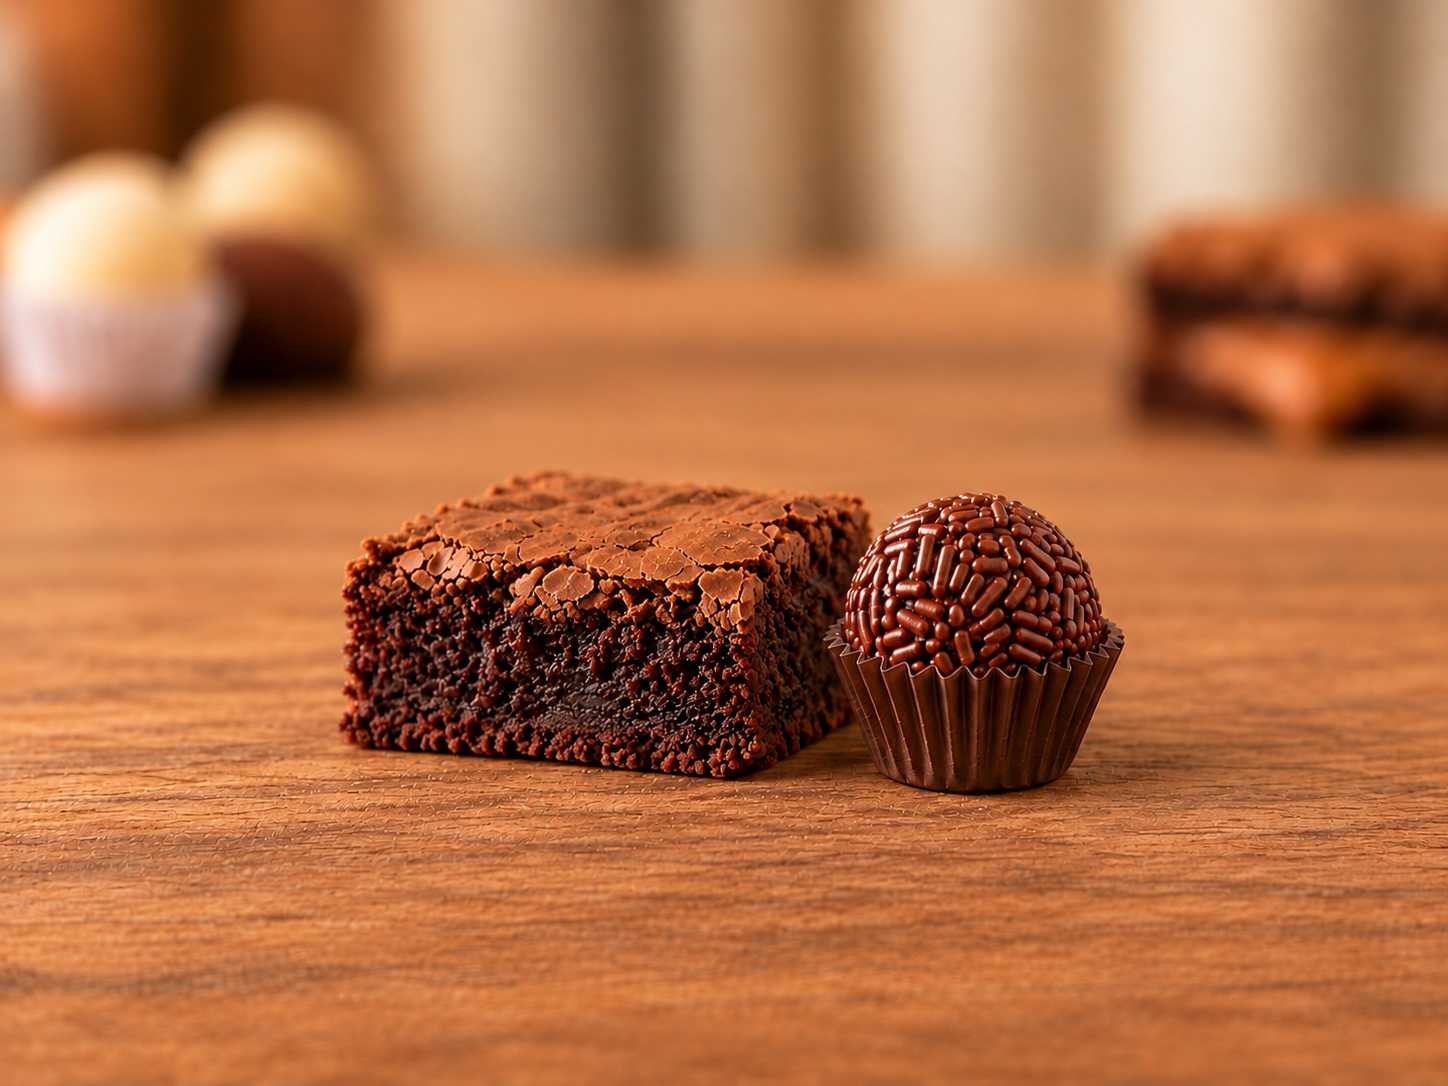
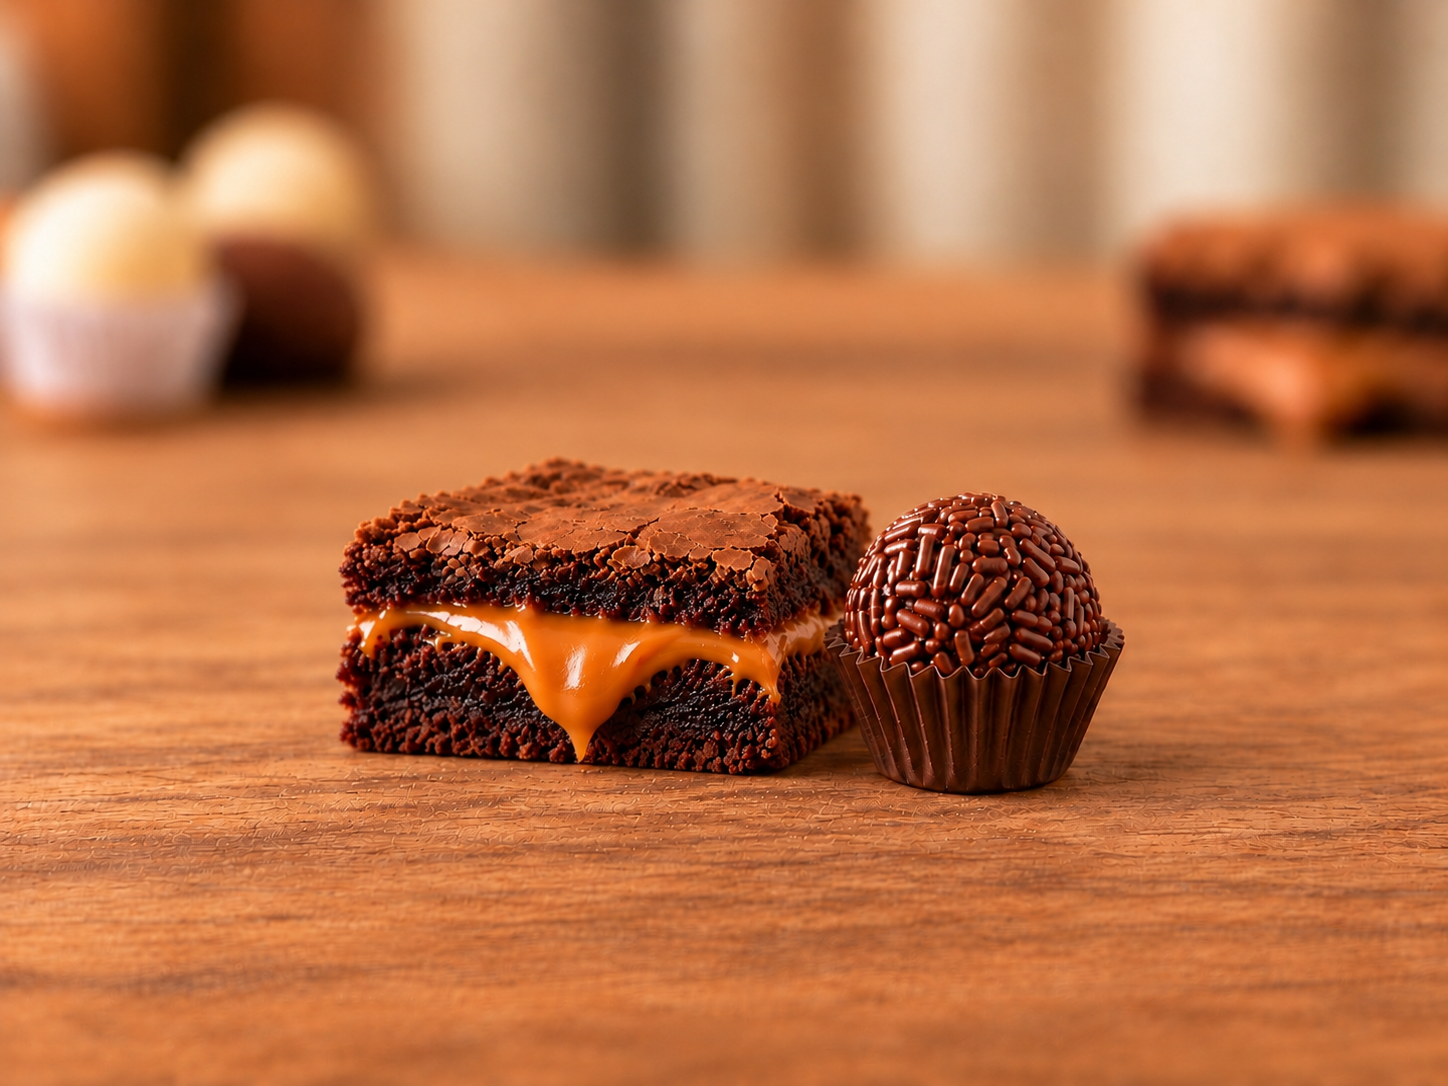
novos preços e imagens

diff --git a/src/app.js b/src/app.js
@@ -31,7 +31,7 @@ const HERO_BANNERS = [
 const CATEGORIES = [
   {
     id: 'brownies', title: 'Brownies', index: '01', products: [
-      { id: 'brownie-tradicional', name: 'Brownie Tradicional', description: '1 Brownie Tradicional', priceCents: 500, image: CATALOG_IMAGES.brownie },
+      { id: 'brownie-tradicional', name: 'Brownie Tradicional', description: '1 Brownie Tradicional', priceCents: 500, image: CATALOG_IMAGES.brownie, available: false },
       { id: 'brownie-recheado', name: 'Brownie Recheado', description: '1 Brownie Recheado', priceCents: 700, image: CATALOG_IMAGES.brownieRecheado },
     ],
   },
@@ -43,18 +43,18 @@ const CATEGORIES = [
   },
   {
     id: 'bombons', title: 'Bombons', index: '03', products: [
-      { id: 'bombom-ouro-branco', name: 'Bombom Ouro Branco', description: '1 Bombom Ouro Branco', priceCents: 350, image: CATALOG_IMAGES.ouroBranco },
+      { id: 'bombom-ouro-branco', name: 'Bombom Ouro Branco', description: '1 Bombom Ouro Branco', priceCents: 220, image: CATALOG_IMAGES.ouroBranco },
     ],
   },
   {
     id: 'combos', title: 'Combos promocionais', index: '04', products: [
-      { id: 'combo-namorados-romantico', name: 'Combo Namorados', description: '2 Brownies Tradicionais + 2 Brigadeiros', priceCents: 800, originalPriceCents: 1400, image: CATALOG_IMAGES.namorados },
-      { id: 'combo-trio-de-amigos', name: 'Combo Trio', description: '3 Brownies Tradicionais + 3 Brigadeiros', priceCents: 1800, originalPriceCents: 2100, image: CATALOG_IMAGES.trio },
-      { id: 'combo-duo-dupla', name: 'Combo Duo', description: '1 Brownie Tradicional + 1 Brigadeiro', priceCents: 620, originalPriceCents: 700, image: CATALOG_IMAGES.duo },
-      { id: 'combo-loucos-por-chocolate', name: 'Combo Loucos por Chocolate', description: '1 Brownie Tradicional + 2 Brigadeiros + 1 Ouro Branco', priceCents: 1100, originalPriceCents: 1250, image: CATALOG_IMAGES.loucos },
-      { id: 'combo-galera-grupo', name: 'Combo Grupo', description: '4 Brigadeiros + 2 Ouro Branco', priceCents: 1300, originalPriceCents: 1500, image: CATALOG_IMAGES.galera },
-      { id: 'combo-pequena-pausa-lanchinho', name: 'Combo Pequena Pausa', description: '1 Brigadeiro + 1 Ouro Branco', priceCents: 500, originalPriceCents: 550, image: CATALOG_IMAGES.pausa },
-      { id: 'combo-degustacao-total', name: 'Combo Degustação Total', description: '1 Brownie Tradicional + 1 Brigadeiro Recheado + 1 Brigadeiro de Leite Ninho + 1 Ouro Branco', priceCents: 1600, originalPriceCents: 1950, image: CATALOG_IMAGES.degustacao },
+      { id: 'combo-namorados-romantico', name: 'Combo Namorados', description: '2 Brownies Recheados + 2 Brigadeiros', priceCents: 1400, originalPriceCents: 1800, image: CATALOG_IMAGES.namorados },
+      { id: 'combo-trio-de-amigos', name: 'Combo Trio', description: '3 Brownies Recheados + 3 Brigadeiros', priceCents: 1800, originalPriceCents: 2700, image: CATALOG_IMAGES.trio },
+      { id: 'combo-duo-dupla', name: 'Combo Duo', description: '1 Brownie Recheado + 1 Brigadeiro', priceCents: 720, originalPriceCents: 900, image: CATALOG_IMAGES.duo },
+      { id: 'combo-loucos-por-chocolate', name: 'Combo Loucos por Chocolate', description: '1 Brownie Recheado + 2 Brigadeiros + 1 Ouro Branco', priceCents: 1100, originalPriceCents: 1320, image: CATALOG_IMAGES.loucos },
+      { id: 'combo-galera-grupo', name: 'Combo Grupo', description: '4 Brigadeiros + 2 Ouro Branco', priceCents: 1100, originalPriceCents: 1240, image: CATALOG_IMAGES.galera },
+      { id: 'combo-pequena-pausa-lanchinho', name: 'Combo Pequena Pausa', description: '1 Brigadeiro + 1 Ouro Branco', priceCents: 400, originalPriceCents: 420, image: CATALOG_IMAGES.pausa },
+      { id: 'combo-degustacao-total', name: 'Combo Degustação Total', description: '2 Brownies Recheados + 1 Brigadeiro Tradicional + 1 Brigadeiro de Leite Ninho + 1 Ouro Branco', priceCents: 1700, originalPriceCents: 2020, image: CATALOG_IMAGES.degustacao },
     ],
   },
 ];
@@ -117,7 +117,7 @@ function safeRead(key, fallback) {
 function loadCart() {
   const saved = safeRead(CONFIG.cartKey, []);
   if (!Array.isArray(saved)) return [];
-  return saved.filter((line) => productById.has(line.id) && Number.isSafeInteger(line.quantity) && line.quantity > 0 && line.quantity <= 99);
+  return saved.filter((line) => productById.has(line.id) && productById.get(line.id).available !== false && Number.isSafeInteger(line.quantity) && line.quantity > 0 && line.quantity <= 99);
 }
 
 function loadCheckoutData() {
@@ -406,9 +406,16 @@ function makeProductCard(product) {
   const description = makeElement('p', 'product-description', product.description);
   const addButton = makeElement('button', 'product-add');
   addButton.type = 'button';
-  addButton.setAttribute('aria-label', `Adicionar ${product.name}, ${formatPrice(product.priceCents)}, ao carrinho`);
-  addButton.append(makeElement('span', '', 'Adicionar ao carrinho'), makeElement('span', '', '+'));
-  addButton.addEventListener('click', () => addProduct(product.id));
+  if (product.available === false) {
+    addButton.disabled = true;
+    addButton.classList.add('product-add--unavailable');
+    addButton.setAttribute('aria-label', `${product.name}, esgotado`);
+    addButton.append(makeElement('span', '', 'Esgotado'));
+  } else {
+    addButton.setAttribute('aria-label', `Adicionar ${product.name}, ${formatPrice(product.priceCents)}, ao carrinho`);
+    addButton.append(makeElement('span', '', 'Adicionar ao carrinho'), makeElement('span', '', '+'));
+    addButton.addEventListener('click', () => addProduct(product.id));
+  }
   info.append(meta, description, addButton);
   if (image) article.append(image);
   article.append(info);
@@ -428,7 +435,7 @@ function totalUnits() {
 
 function addProduct(id) {
   const product = productById.get(id);
-  if (!product) return;
+  if (!product || product.available === false) return;
   const existing = cart.find((line) => line.id === id);
   if (existing) existing.quantity = Math.min(99, existing.quantity + 1);
   else cart.push({ id, quantity: 1 });

diff --git a/src/styles.css b/src/styles.css
@@ -140,9 +140,11 @@ h1, h2, h3, p { margin-top: 0; }
 .discount-badge { padding: 3px 5px; border-radius: 999px; background: #f8e9ec; color: var(--red-dark); font-size: 8px; font-weight: 700; line-height: 1; white-space: nowrap; }
 .product-add { width: 100%; min-height: 42px; margin-top: auto; display: flex; align-items: center; justify-content: space-between; padding: 7px 11px; border: 1px solid #d9ccc6; background: transparent; color: var(--ink); cursor: pointer; transition: transform .18s ease, border-color .18s ease, background-color .18s ease, color .18s ease, box-shadow .18s ease; }
 .product-add span:last-child { display: inline-flex; flex: 0 0 22px; align-items: center; justify-content: center; width: 22px; height: 22px; padding: 0; color: var(--red); }
-.product-add:hover { border-color: var(--red); background: var(--red); color: #fff; box-shadow: 0 5px 12px rgba(200,16,46,.15); }
-.product-add:hover span:last-child { color: #fff; }
-.product-add:active { transform: translateY(0) scale(.97); }
+.product-add:hover:not(:disabled) { border-color: var(--red); background: var(--red); color: #fff; box-shadow: 0 5px 12px rgba(200,16,46,.15); }
+.product-add:hover:not(:disabled) span:last-child { color: #fff; }
+.product-add:active:not(:disabled) { transform: translateY(0) scale(.97); }
+.product-add--unavailable { justify-content: center; border-color: var(--line); background: #f7f2ef; color: var(--muted); cursor: not-allowed; box-shadow: none; }
+.product-add--unavailable span:last-child { flex-basis: auto; width: auto; height: auto; }
 
 .order-note { position: relative; min-height: 250px; padding: 55px max(32px, calc((100vw - 1120px) / 2)); display: grid; grid-template-columns: minmax(280px, 1fr) minmax(280px, clamp(280px, 38vw, 440px)); align-items: center; gap: 30px; overflow: hidden; background: var(--beige); }
 .order-note-copy { position: relative; z-index: 1; }
